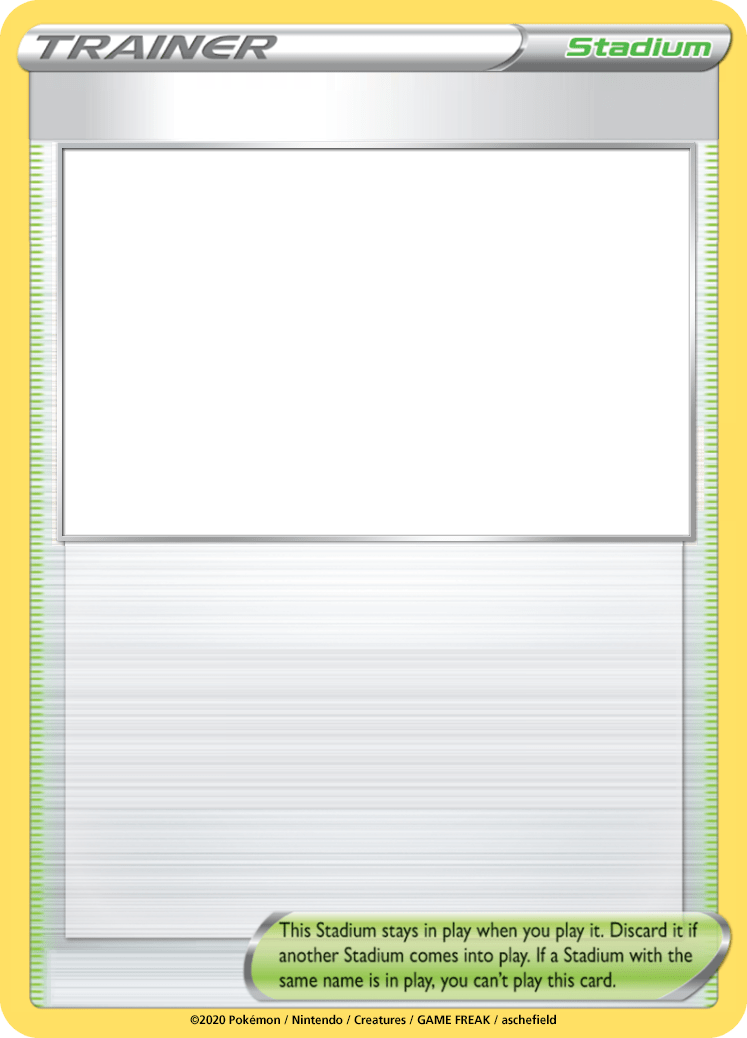
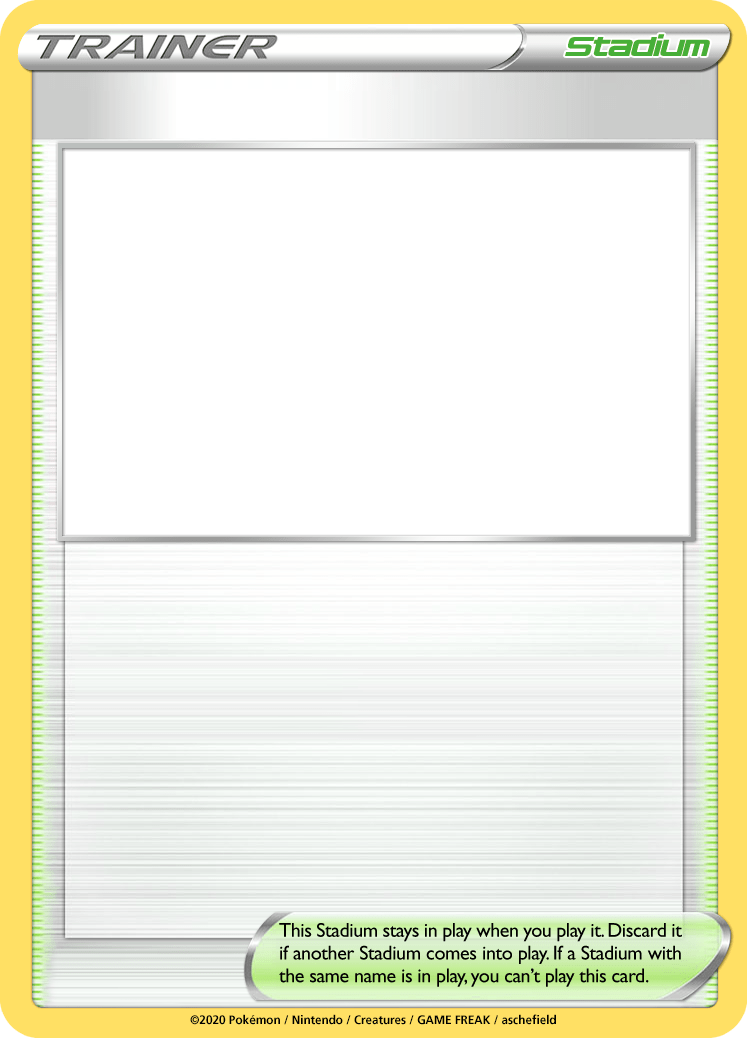
added dark variations

diff --git a/src/utils/cardImgPaths.ts b/src/utils/cardImgPaths.ts
@@ -6,12 +6,15 @@ export default [
[15 lines of base64/hex data omitted]
@@ -25,12 +28,15 @@ export default [
[15 lines of base64/hex data omitted]
@@ -42,12 +48,15 @@ export default [
[15 lines of base64/hex data omitted]
@@ -58,14 +67,17 @@ export default [
[17 lines of base64/hex data omitted]
@@ -77,12 +89,15 @@ export default [
[15 lines of base64/hex data omitted]
@@ -96,12 +111,15 @@ export default [
[15 lines of base64/hex data omitted]
@@ -115,12 +133,15 @@ export default [
[15 lines of base64/hex data omitted]
@@ -134,12 +155,15 @@ export default [
[15 lines of base64/hex data omitted]
@@ -153,12 +177,15 @@ export default [
[15 lines of base64/hex data omitted]
@@ -172,12 +199,15 @@ export default [
[15 lines of base64/hex data omitted]
@@ -191,12 +221,15 @@ export default [
[15 lines of base64/hex data omitted]

diff --git a/src/features/cardEditor/cardOptions/components/blocks/BasicsForm/fields/CardTypeForm/fields/VariationSelector/index.tsx b/src/features/cardEditor/cardOptions/components/blocks/BasicsForm/fields/CardTypeForm/fields/VariationSelector/index.tsx
@@ -1,6 +1,12 @@
 import { useCardLogic } from '@cardEditor/cardLogic';
+import NewFeatureHelpText from '@cardEditor/cardOptions/components/atoms/NewFeatureHelpText';
 import { useRarity } from '@cardEditor/cardOptions/rarity';
-import { useSubtype } from '@cardEditor/cardOptions/subtype';
+import {
+  basic,
+  stage1,
+  stage2,
+  useSubtype,
+} from '@cardEditor/cardOptions/subtype';
 import { useVariation } from '@cardEditor/cardOptions/variation';
 import ControlledSelector from '@components/inputs/ControlledSelector';
 import { AnalyticsEvent, useAnalytics } from '@features/analytics';
@@ -30,6 +36,19 @@ const VariationSelector: FC = () => {
       displayName="Variation"
       slug="variation"
       onChange={handleChange}
+      helpText={
+        subtype?.id === basic.id ||
+        subtype?.id === stage1.id ||
+        subtype?.id === stage2.id ? (
+          <NewFeatureHelpText>
+            Try the new{' '}
+            <b>
+              <i>Dark</i>
+            </b>{' '}
+            variation!
+          </NewFeatureHelpText>
+        ) : undefined
+      }
     >
       {!isVariationRequired && (
         <MenuItem value="">

diff --git a/src/pages/index.page.tsx b/src/pages/index.page.tsx
@@ -90,12 +90,18 @@ const Home: FC = () => {
               <List>
                 <li>Basic Pokémon</li>
                 <li>Basic Light Pokémon</li>
+                <li>Basic Dark Pokémon</li>
+                <li>Basic Character Rare Pokémon</li>
                 <li>Gold Star Basic Pokémon</li>
                 <li>Promo Basic Pokémon</li>
                 <li>Stage 1 Pokémon</li>
                 <li>Stage 1 Light Pokémon</li>
+                <li>Stage 1 Dark Pokémon</li>
+                <li>Stage 1 Character Rare Pokémon</li>
                 <li>Stage 2 Pokémon</li>
                 <li>Stage 2 Light Pokémon</li>
+                <li>Stage 2 Dark Pokémon</li>
+                <li>Stage 2 Character Rare Pokémon</li>
                 <li>Pokémon V</li>
                 <li>Pokémon V Full Art</li>
                 <li>Pokémon V Golden Full Art</li>

diff --git a/src/features/cardEditor/cardStyles/components/fields/DexStats/index.tsx b/src/features/cardEditor/cardStyles/components/fields/DexStats/index.tsx
@@ -1,15 +1,21 @@
 import { useCardLogic } from '@cardEditor/cardLogic';
 import { useCardOptions } from '@cardEditor/cardOptions';
+import { useCardStyles } from '@cardEditor/cardStyles/hooks';
 import { FC } from 'react';
 import { DexStatsText } from './styles';
 
 const DexStats: FC = () => {
   const { hasDexStats } = useCardLogic();
   const { dexStats } = useCardOptions();
+  const { dexStatsTextColor, dexStatsOutline } = useCardStyles();
 
   if (!hasDexStats) return null;
 
-  return <DexStatsText>{dexStats}</DexStatsText>;
+  return (
+    <DexStatsText color={dexStatsTextColor} outline={dexStatsOutline}>
+      {dexStats}
+    </DexStatsText>
+  );
 };
 
 export default DexStats;

diff --git a/src/features/cardEditor/cardStyles/types.ts b/src/features/cardEditor/cardStyles/types.ts
@@ -43,6 +43,16 @@ export interface CardStyles {
    */
   cardInfoOutline?: TextColor;
   /**
+   * The bar that shows weakness & resistance
+   * @default none
+   */
+  typeBarOutline?: TextColor;
+  /**
+   * The bar in the middle of the card that describes height and weight
+   * @default none
+   */
+  dexStatsOutline?: TextColor;
+  /**
    * @default black
    */
   nameTextColor: TextColor;
@@ -64,6 +74,11 @@ export interface CardStyles {
    * @default black
    */
   cardInfoTextColor: TextColor;
+  /**
+   * The bar in the middle of the card that describes height and weight
+   * @default black
+   */
+  dexStatsTextColor: TextColor;
   /**
    * @default black
    */

diff --git a/src/features/cardEditor/cardOptions/variation/data.ts b/src/features/cardEditor/cardOptions/variation/data.ts
@@ -25,5 +25,21 @@ export const light: Variation = {
   subtypes: [basic.id, stage1.id, stage2.id],
   rarities: [],
 };
+export const dark: Variation = {
+  id: 4,
+  slug: 'dark',
+  displayName: 'Dark',
+  subtypes: [basic.id, stage1.id, stage2.id],
+  rarities: [],
+  styles: {
+    rarityIconColor: 'white',
+    cardInfoTextColor: 'black',
+    cardInfoOutline: 'white',
+    typeBarTextColor: 'black',
+    typeBarOutline: 'white',
+    dexStatsOutline: 'white',
+    dexStatsTextColor: 'black',
+  },
+};
 
-export const variations: Variation[] = [dynamax, gigantamax, light];
+export const variations: Variation[] = [dynamax, gigantamax, light, dark];

diff --git a/src/features/cardEditor/cardStyles/components/blocks/TypeBar/fields/ResistanceAmount/index.tsx b/src/features/cardEditor/cardStyles/components/blocks/TypeBar/fields/ResistanceAmount/index.tsx
@@ -5,10 +5,10 @@ import { ModifierText, ResistanceText, Wrapper } from './styles';
 
 const ResistanceAmount: FC = () => {
   const { resistanceAmount } = useCardOptions();
-  const { typeBarTextColor } = useCardStyles();
+  const { typeBarTextColor, typeBarOutline } = useCardStyles();
 
   return (
-    <Wrapper color={typeBarTextColor}>
+    <Wrapper color={typeBarTextColor} outline={typeBarOutline}>
       <ModifierText>-</ModifierText>
       <ResistanceText>{resistanceAmount}</ResistanceText>
     </Wrapper>

diff --git a/src/features/cardEditor/cardStyles/components/blocks/TypeBar/fields/WeaknessAmount/index.tsx b/src/features/cardEditor/cardStyles/components/blocks/TypeBar/fields/WeaknessAmount/index.tsx
@@ -5,10 +5,10 @@ import { ModifierText, WeaknessText, Wrapper } from './styles';
 
 const WeaknessAmount: FC = () => {
   const { weaknessAmount } = useCardOptions();
-  const { typeBarTextColor } = useCardStyles();
+  const { typeBarTextColor, typeBarOutline } = useCardStyles();
 
   return (
-    <Wrapper color={typeBarTextColor}>
+    <Wrapper color={typeBarTextColor} outline={typeBarOutline}>
       <ModifierText>×</ModifierText>
       <WeaknessText>{weaknessAmount}</WeaknessText>
     </Wrapper>

diff --git a/src/features/cardEditor/cardStyles/defaults.ts b/src/features/cardEditor/cardStyles/defaults.ts
@@ -8,10 +8,13 @@ export const defaultCardStyles: RequiredIsh<CardStyles> = {
   typeBarTextColor: 'black',
   cardInfoTextColor: 'black',
   rarityIconColor: 'black',
+  dexStatsTextColor: 'black',
   nameOutline: undefined,
   hpOutline: undefined,
   movesOutline: undefined,
   cardInfoOutline: undefined,
+  typeBarOutline: undefined,
+  dexStatsOutline: undefined,
   abilitySymbol: undefined,
   nameSymbol: undefined,
   hpSize: 'sm',

diff --git a/src/features/cardEditor/cardStyles/components/atoms/AttackMove/fields/AttackMoveDamageAmount/styles.ts b/src/features/cardEditor/cardStyles/components/atoms/AttackMove/fields/AttackMoveDamageAmount/styles.ts
@@ -19,7 +19,7 @@ export const MoveDamageAmountText = styled(CardText)`
 export const MoveDamageModifierText = styled(CardText)`
   position: absolute;
   font-size: 2em;
-  top: 50%;
+  top: 38%;
   right: -1em;
   transform: translate(-50%, -50%);
 `;
